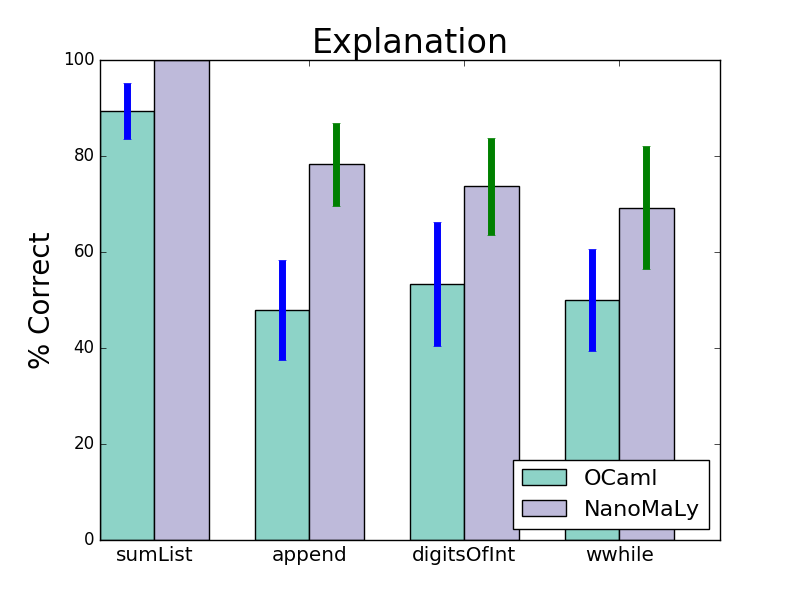
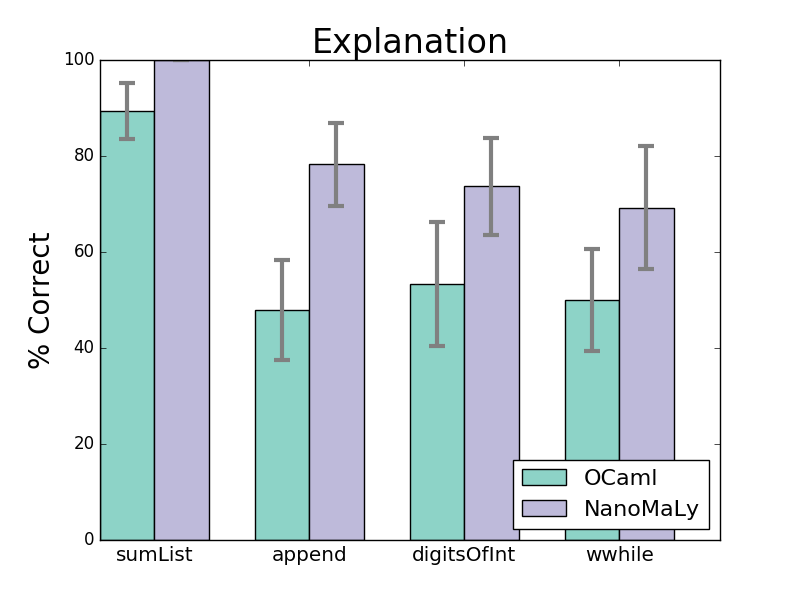
fix error bars

diff --git a/paper/jfp-submission/plots.py b/paper/jfp-submission/plots.py
@@ -119,14 +119,14 @@ def plot_user_study():
                   width,
                   color=COLORS[0],
                   yerr=map(err, [sumlist_b, append_a, digitsofint_a, wwhile_b]),
-                  error_kw={'linewidth': 5}
+                  error_kw={'linewidth': 3, 'ecolor': 'gray', 'capsize': 6, 'capthick': 3}
     )
     p_n = plt.bar(ind + width,
                   [100*np.average(sumlist_a), 100*np.average(append_b), 100*np.average(digitsofint_b), 100*np.average(wwhile_a)],
                   width,
                   color=COLORS[1],
                   yerr=map(err, [sumlist_a, append_b, digitsofint_b, wwhile_a]),
-                  error_kw={'linewidth': 5}
+                  error_kw={'linewidth': 3, 'ecolor': 'gray', 'capsize': 6, 'capthick': 3}
     )
 
     plt.title('Explanation',fontsize=24)
@@ -161,14 +161,14 @@ def plot_user_study():
                   width,
                   color=COLORS[0],
                   yerr=map(err, [sumlist_b, append_a, digitsofint_a, wwhile_b]),
-                  error_kw={'linewidth': 5}
+                  error_kw={'linewidth': 3, 'ecolor': 'gray', 'capsize': 6, 'capthick': 3}
     )
     p_n = plt.bar(ind + width,
                   [100*np.average(sumlist_a), 100*np.average(append_b), 100*np.average(digitsofint_b), 100*np.average(wwhile_a)],
                   width,
                   color=COLORS[1],
                   yerr=map(err, [sumlist_a, append_b, digitsofint_b, wwhile_a]),
-                  error_kw={'linewidth': 5}
+                  error_kw={'linewidth': 3, 'ecolor': 'gray', 'capsize': 6, 'capthick': 3}
     )
 
     plt.title('Fix',fontsize=24)
